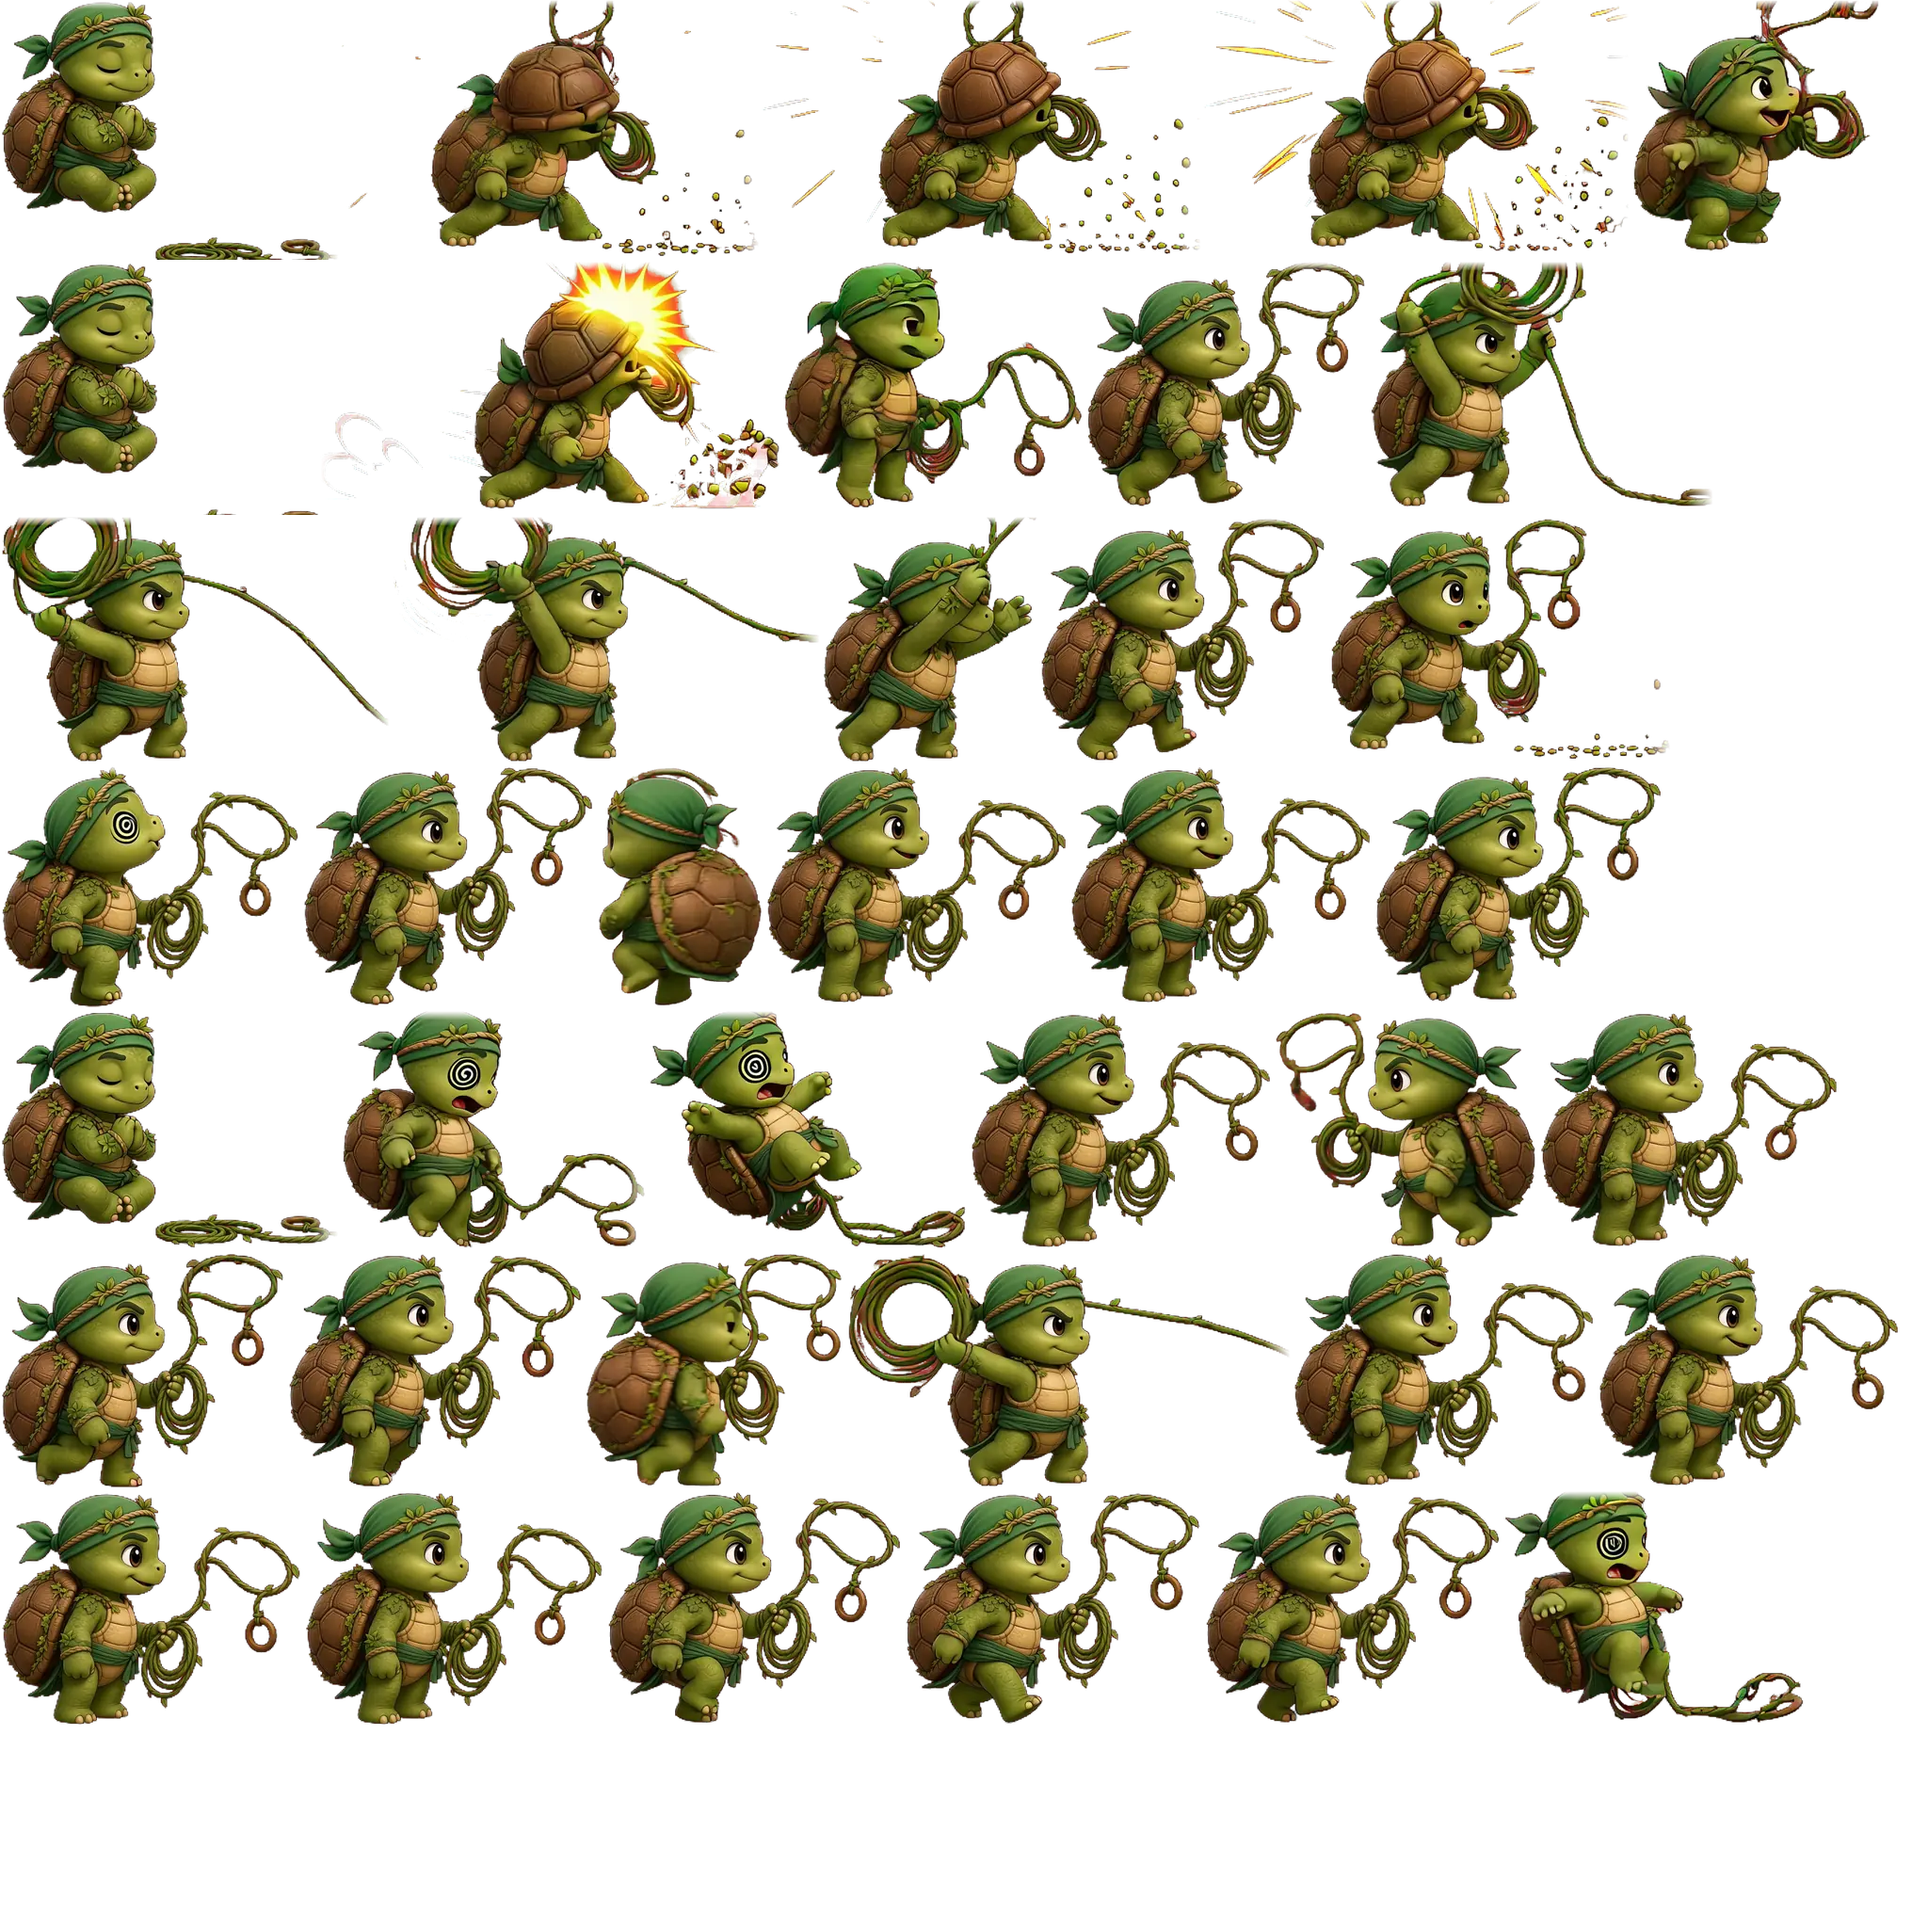
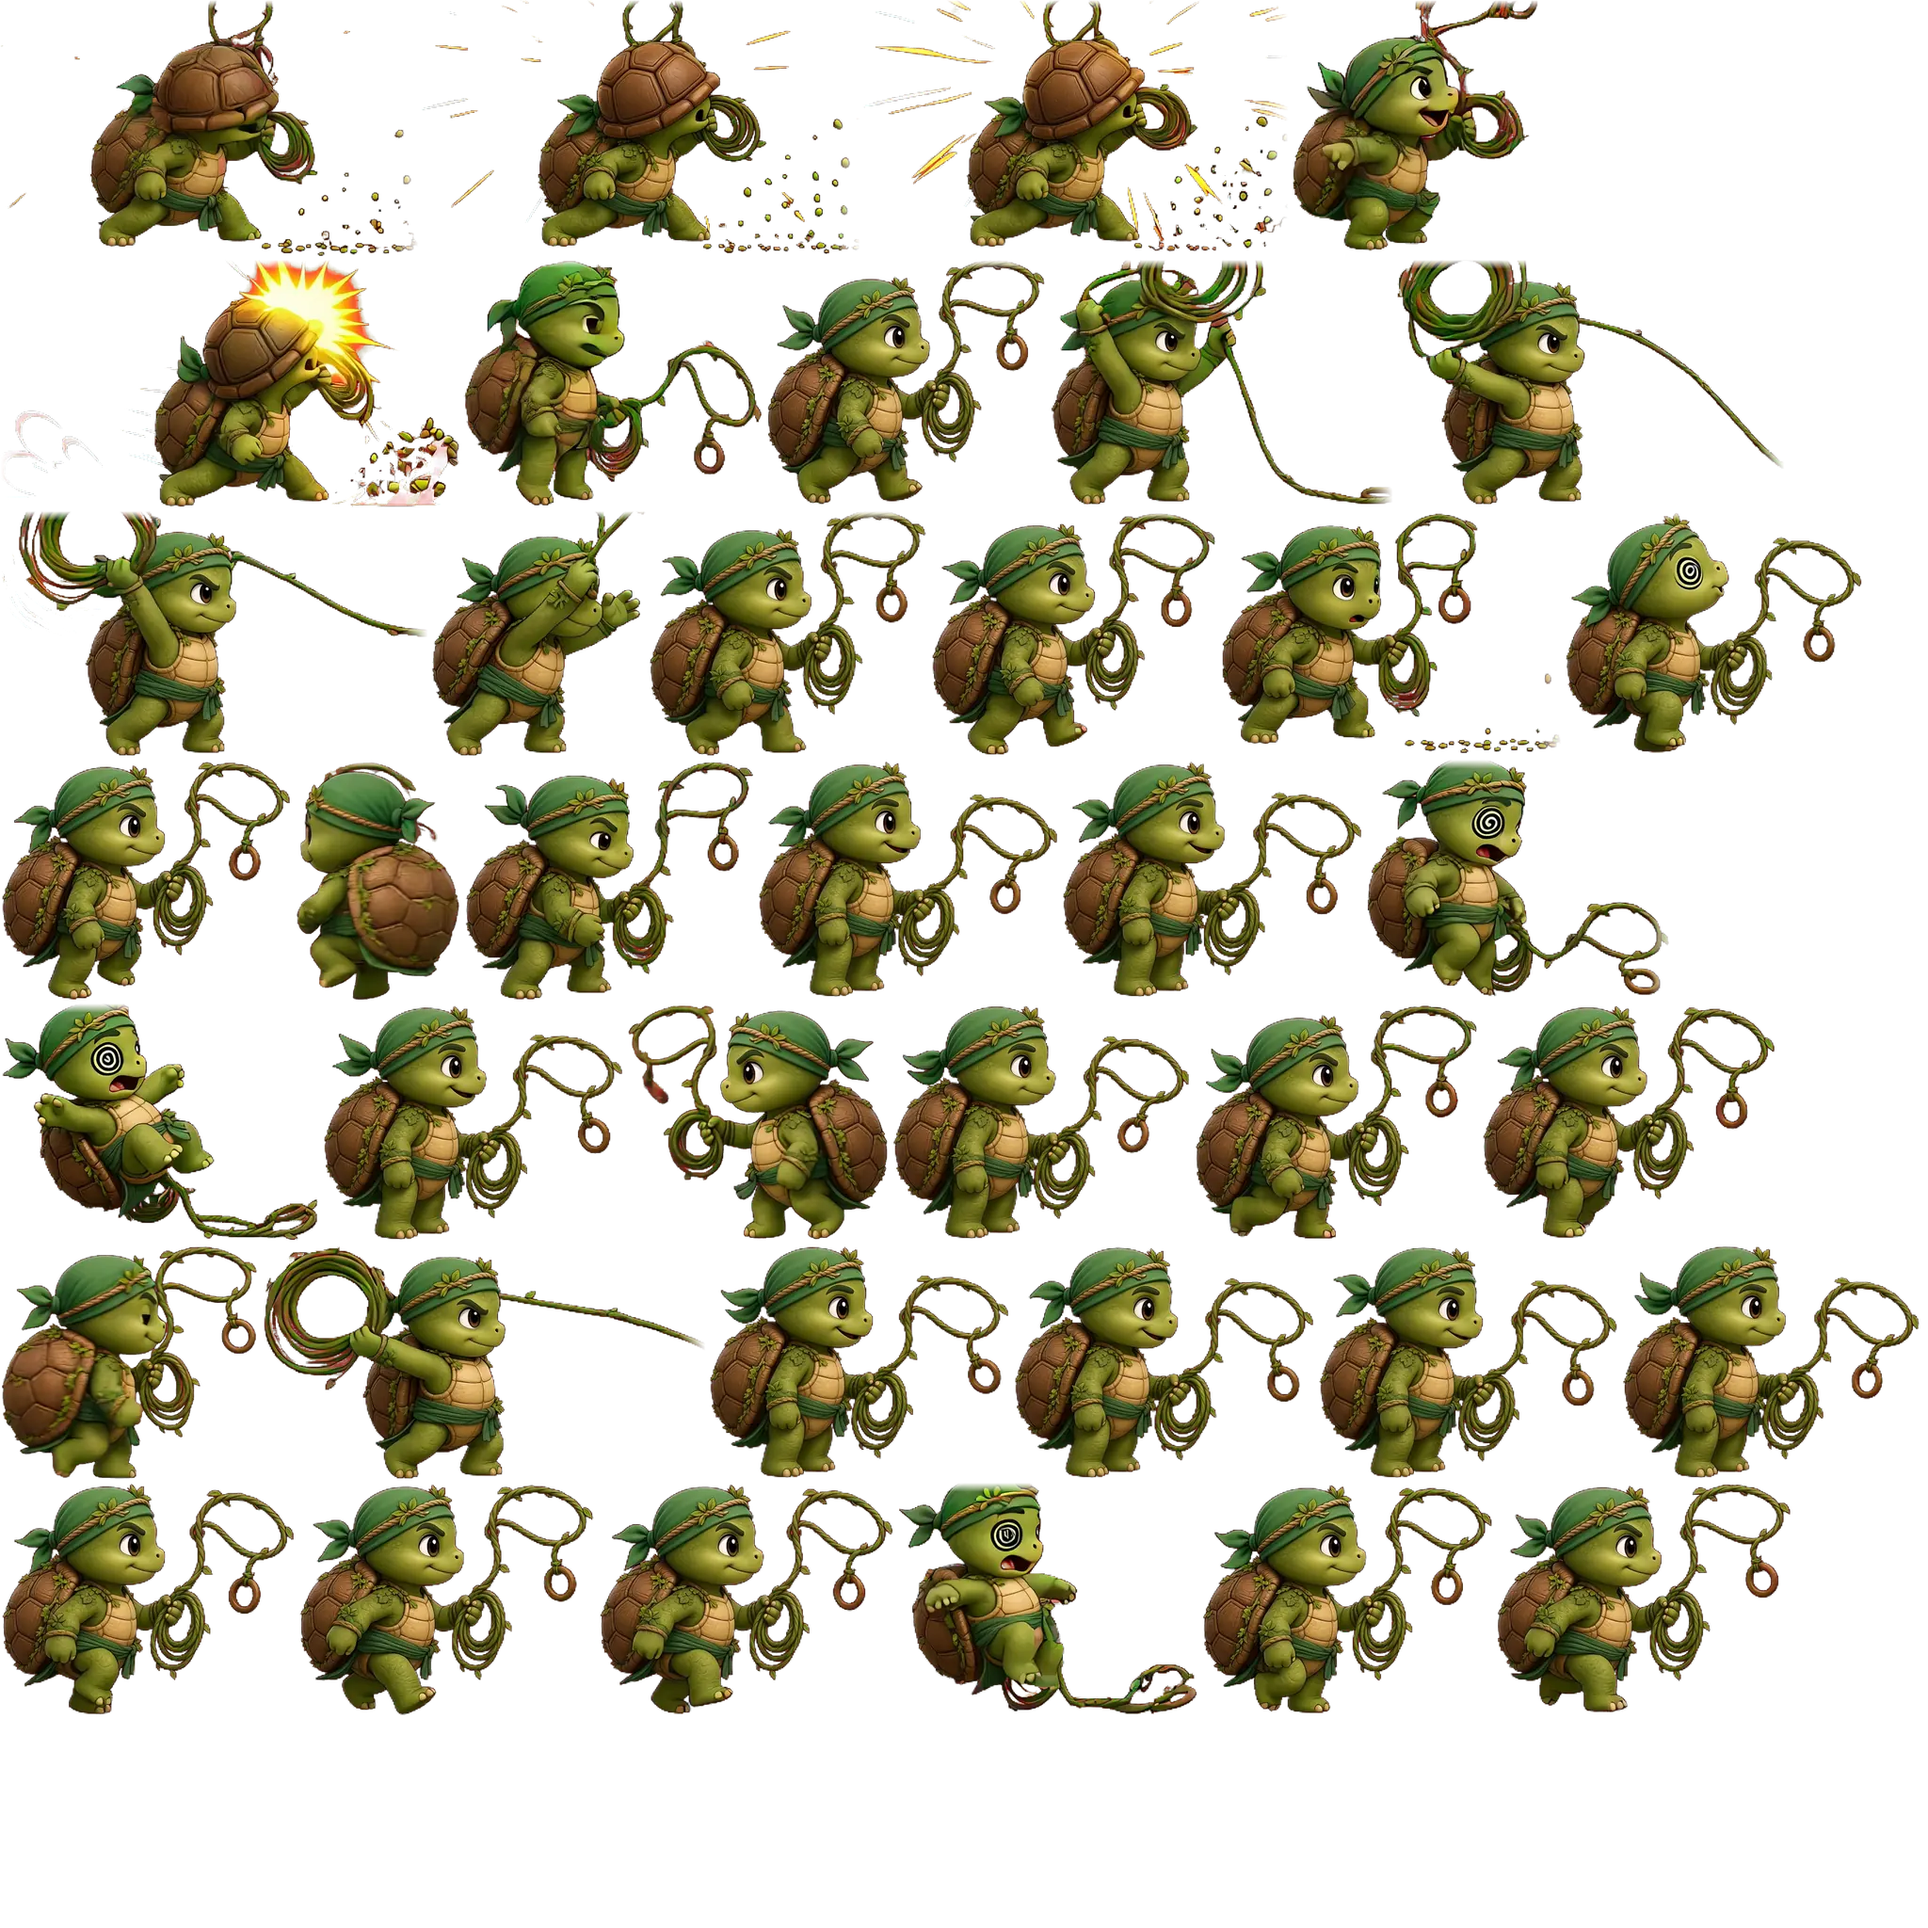
단단 귀환: 새 영상(recall2) 프레임 — 자세 잡기 인트로 + 떨림 루프, 빛 기둥 강화·손 사이 에너지 구슬·도착 섬광

diff --git a/js/heroes2d.js b/js/heroes2d.js
@@ -255,14 +255,45 @@ function updateFrameHero(m, e, dt) {
     else if (Math.abs(e.vx || 0) > 10) { setBase(F, 'walk'); A.fpsMul = Math.max(0.6, Math.min(1.5, Math.abs(e.vx) / ((e.d && e.d.spd) || 205))); }
     else setBase(F, 'idle');
   }
-  // 귀환 이펙트: 채널 중 빛 기둥 루프, 완료(남은 시간≈0)면 도착 지점에서 마무리 섬광
+  // 귀환 이펙트: 채널 중 빛 기둥(뒤: 넓고 밝게 + 앞: 얇게) + 바닥 광륜 + 두 손 사이 에너지 구슬(채널 진행만큼 커짐),
+  // 완료(남은 시간≈0)면 도착 지점에서 큰 섬광 + 마무리 기둥 + 반짝이 폭발. 취소되면 빠르게 사라짐
+  const RF = F.FX && F.FX.recall;
   if (e.recall) {
-    F.recT = e.recall.t;
-    if (!F.rec && F.FX && F.FX.recall) F.rec = fxAdd(F, m, 'recall', { w: 1.9, bottom: true, y: -0.1, z: 0.2, loop: true, to: F.FX.recall.loopN, fadeIn: 0.3 });
+    F.recT = e.recall.t; F.recK = Math.max(0, Math.min(1, 1 - e.recall.t / (e.recall.t0 || 4)));
+    if (!F.rec && RF) {
+      F.rec = [fxAdd(F, m, 'recall', { w: 3.0, bottom: true, y: -0.15, z: -0.05, loop: true, to: RF.loopN, fadeIn: 0.35, gain: 2.2, renderOrder: 4.7 }),
+        fxAdd(F, m, 'recall', { w: 2.1, bottom: true, y: -0.1, z: 0.25, loop: true, to: RF.loopN, fadeIn: 0.5, gain: 1.3, alpha: 0.55, fps: 15 })];
+      const tc = 0xc8ff8a;
+      F.orb = { core: glowSprite(0xffffff, 0.3), halo: glowSprite(tc, 0.8), ring: glowSprite(tc, 2.4), t: 0 };
+      F.orb.core.renderOrder = 6.6; F.orb.halo.renderOrder = 6.5; F.orb.ring.renderOrder = 1.6; F.orb.ring.scale.set(2.6, 0.55, 1);
+      m.userData.body.add(F.orb.core, F.orb.halo, F.orb.ring);
+    }
   } else if (F.rec) {
-    F.rec.stop(); F.rec = null;
-    if (F.recT < 0.15 && F.FX.recall) fxAdd(F, m, 'recall', { w: 2.3, bottom: true, y: -0.1, z: 0.2, from: F.FX.recall.loopN, fps: 10, fadeOut: 0.2 });
+    F.rec.forEach(x => x && x.stop()); F.rec = null;
+    if (F.recT < 0.15 && RF) {   // 도착!
+      fxAdd(F, m, 'recall', { w: 3.6, bottom: true, y: -0.15, z: 0.3, from: RF.loopN, fps: 10, fadeOut: 0.25, gain: 2.4 });
+      fxAdd(F, m, 'impact', { w: 4.2, y: 1.2, z: 0.4, fps: 26, tint: 0xe8ffc0, gain: 1.6 });
+      const fl = glowSprite(0xf4ffd8, 1); fl.renderOrder = 7.5; fl.position.set(0, 1.2, 0.5); m.add(fl); F.flash = { s: fl, t: 0 };
+      const p = new THREE.Vector3(); m.getWorldPosition(p);
+      burst(p.x, p.y + 1.1, p.z + .4, { n: 28, tex: T.star, color: [0xd8ff9a, 0xffffff, 0xfff2a0], spd: 3.6, size: .4, life: .8, g: -1.2, spread: 1.4, spreadY: .8, add: true });
+      burst(p.x, p.y + 0.2, p.z + .4, { n: 16, tex: T.glow, color: [0xb8ff70, 0xffffff], spd: 2.2, size: .6, life: .6, g: -3, spread: 1.6, add: true });
+    }
+    if (F.orb) F.orb.fade = 1;
   }
+  if (F.orb) {   // 구슬: 손 위치(프레임별 hand)에 붙고, 채널할수록 커지고 밝아짐 + 떨림/맥동
+    const O = F.orb; O.t += dt; const hw = S.hand(A.frame, F.mirror) || [F.mirror ? -0.9 : 0.9, 1.2];
+    if (O.fade != null) O.fade -= dt * 5;
+    const k = F.recK || 0, a = Math.min(1, O.t / 0.4) * (O.fade != null ? Math.max(0, O.fade) : 1), pul = 1 + 0.12 * Math.sin(O.t * 22) + 0.06 * Math.random();
+    const r = (0.3 + 0.95 * k) * pul;
+    O.core.position.set(hw[0], hw[1], 0.12); O.halo.position.set(hw[0], hw[1], 0.1);
+    O.core.scale.setScalar(r * 0.55); O.halo.scale.setScalar(r * 1.2); O.ring.position.set(0, 0.06, 0.05); O.ring.scale.set(2.2 + 1.4 * k, 0.45 + 0.25 * k, 1);
+    O.core.material.opacity = a; O.halo.material.opacity = a * (0.6 + 0.4 * k); O.ring.material.opacity = a * (0.35 + 0.55 * k) * (0.85 + 0.15 * Math.sin(O.t * 9));
+    if (Math.random() < dt * (6 + 30 * k) && a > 0.5) { const p = new THREE.Vector3(hw[0], hw[1], 0.15); m.userData.body.localToWorld(p);
+      burst(p.x, p.y, p.z, { n: 1, tex: T.glow, color: [0xd8ff9a, 0xffffff], spd: 0.6 + k, size: 0.12 + 0.12 * k, life: 0.5, g: -1.5, spread: 0.5, add: true }); }
+    if (O.fade != null && O.fade <= 0) { [O.core, O.halo, O.ring].forEach(x => { x.parent && x.parent.remove(x); x.material.dispose(); }); F.orb = null; }
+  }
+  if (F.flash) { const L2 = F.flash; L2.t += dt; const q = L2.t / 0.45; L2.s.scale.setScalar(1.5 + 7 * Math.sqrt(q)); L2.s.material.opacity = Math.max(0, 1 - q) * 1.2;
+    if (q >= 1) { L2.s.parent && L2.s.parent.remove(L2.s); L2.s.material.dispose(); F.flash = null; } }
   if (F.after) { F.after.t -= dt; if (F.after.t <= 0) { fxAdd(F, m, 'quake', { w: F.after.w, bottom: true, y: -0.4, z: 0.45, from: 3, fps: 16, alpha: 0.55, renderOrder: 4.6 }, true); F.after = null; } }
   for (let i = F.fx.length - 1; i >= 0; i--) if (!F.fx[i].update(dt)) F.fx.splice(i, 1);
   // 그리기
@@ -282,7 +313,7 @@ function updateFrameHero(m, e, dt) {
 }
 function frameDeath(m, e, D, dt) {
   const F = m.userData.frames, S = F.S, t = D.t, dir = D.dir, sc = m.userData.heroScale || 1;
-  if (!D.started) { D.started = true; F.A.play('death'); F.one = 'death'; F.mirror = (e.face || F.face) < 0; F.rec && F.rec.stop(); F.rec = null; }
+  if (!D.started) { D.started = true; F.A.play('death'); F.one = 'death'; F.mirror = (e.face || F.face) < 0; F.rec && F.rec.forEach(x => x && x.stop()); F.rec = null; if (F.orb) { [F.orb.core, F.orb.halo, F.orb.ring].forEach(x => { x.parent && x.parent.remove(x); x.material.dispose(); }); F.orb = null; } }
   F.A.update(dt); S.show(F.A.frame, F.mirror);
   // 맞은 방향으로 살짝 밀려남 + 작은 튀어오름 (프레임이 넘어지는 동작을 보여줌)
   const air = .45, ta = Math.min(t, air), kx = 1 - Math.pow(1 - ta / air, 2);

diff --git a/characters/common/frames.js b/characters/common/frames.js
@@ -94,6 +94,7 @@ const FXFS = `varying vec2 vUv; uniform sampler2D map; uniform float opacity; un
 export function makeFx(sheet, o = {}) {
   const mat = new THREE.ShaderMaterial({ vertexShader: VS, fragmentShader: FXFS, transparent: true, depthWrite: false, depthTest: o.depthTest !== false, blending: THREE.AdditiveBlending, side: THREE.DoubleSide,
     uniforms: { map: { value: sheet.tex }, uvRect: { value: new THREE.Vector4(0, 0, 1, 1) }, opacity: { value: 1 }, tint: { value: new THREE.Color(o.tint || 0xffffff) } } });
+  if (o.gain) mat.uniforms.tint.value.multiplyScalar(o.gain);   // 밝기 증폭 (가산이라 1보다 크면 더 환하게)
   const geo = new THREE.PlaneGeometry(1, 1); const uv = geo.attributes.uv; for (let i = 0; i < uv.count; i++) uv.setY(i, 1 - uv.getY(i));
   const w = o.w || 2, h = w * sheet.h / sheet.w;
   geo.translate(0, o.bottom ? 0.5 : 0, 0);

diff --git a/tools/dandan_frames/build.py b/tools/dandan_frames/build.py
@@ -19,7 +19,7 @@ A={
  'ult':   dict(src='ult',f=[5,8,11,23,25,27,29,33,45,9],fps=9,loop=False,key=5,shadow=320),
  'jump':  dict(src='jump',f=[16,20,22,34,36,40],fps=12,loop=False,footnorm=[20,22,34,36]),
  'dash':  dict(src='dash',f=[9,13,19,27,35,39],fps=20,loop=False),
- 'recall':dict(src='recall',f=[10,19,28,37,46,58,70,79]+[82,85,88,91,94,97],fps=8,loop=True,loopFrom=8,pingpong=True),
+ 'recall':dict(src='recall2',f=[4,10,16,22,28,37,46,55,61]+list(range(67,90,3)),fps=12,loop=True,loopFrom=9,hand={i:(415,228) for i in range(37,92)}),
  'hit':   dict(src='hit',f=[9,11,13],fps=12,loop=False),
  'death': dict(src='death',f=[13,33,41,43,45,47,49,53],fps=10,loop=False),
 }
